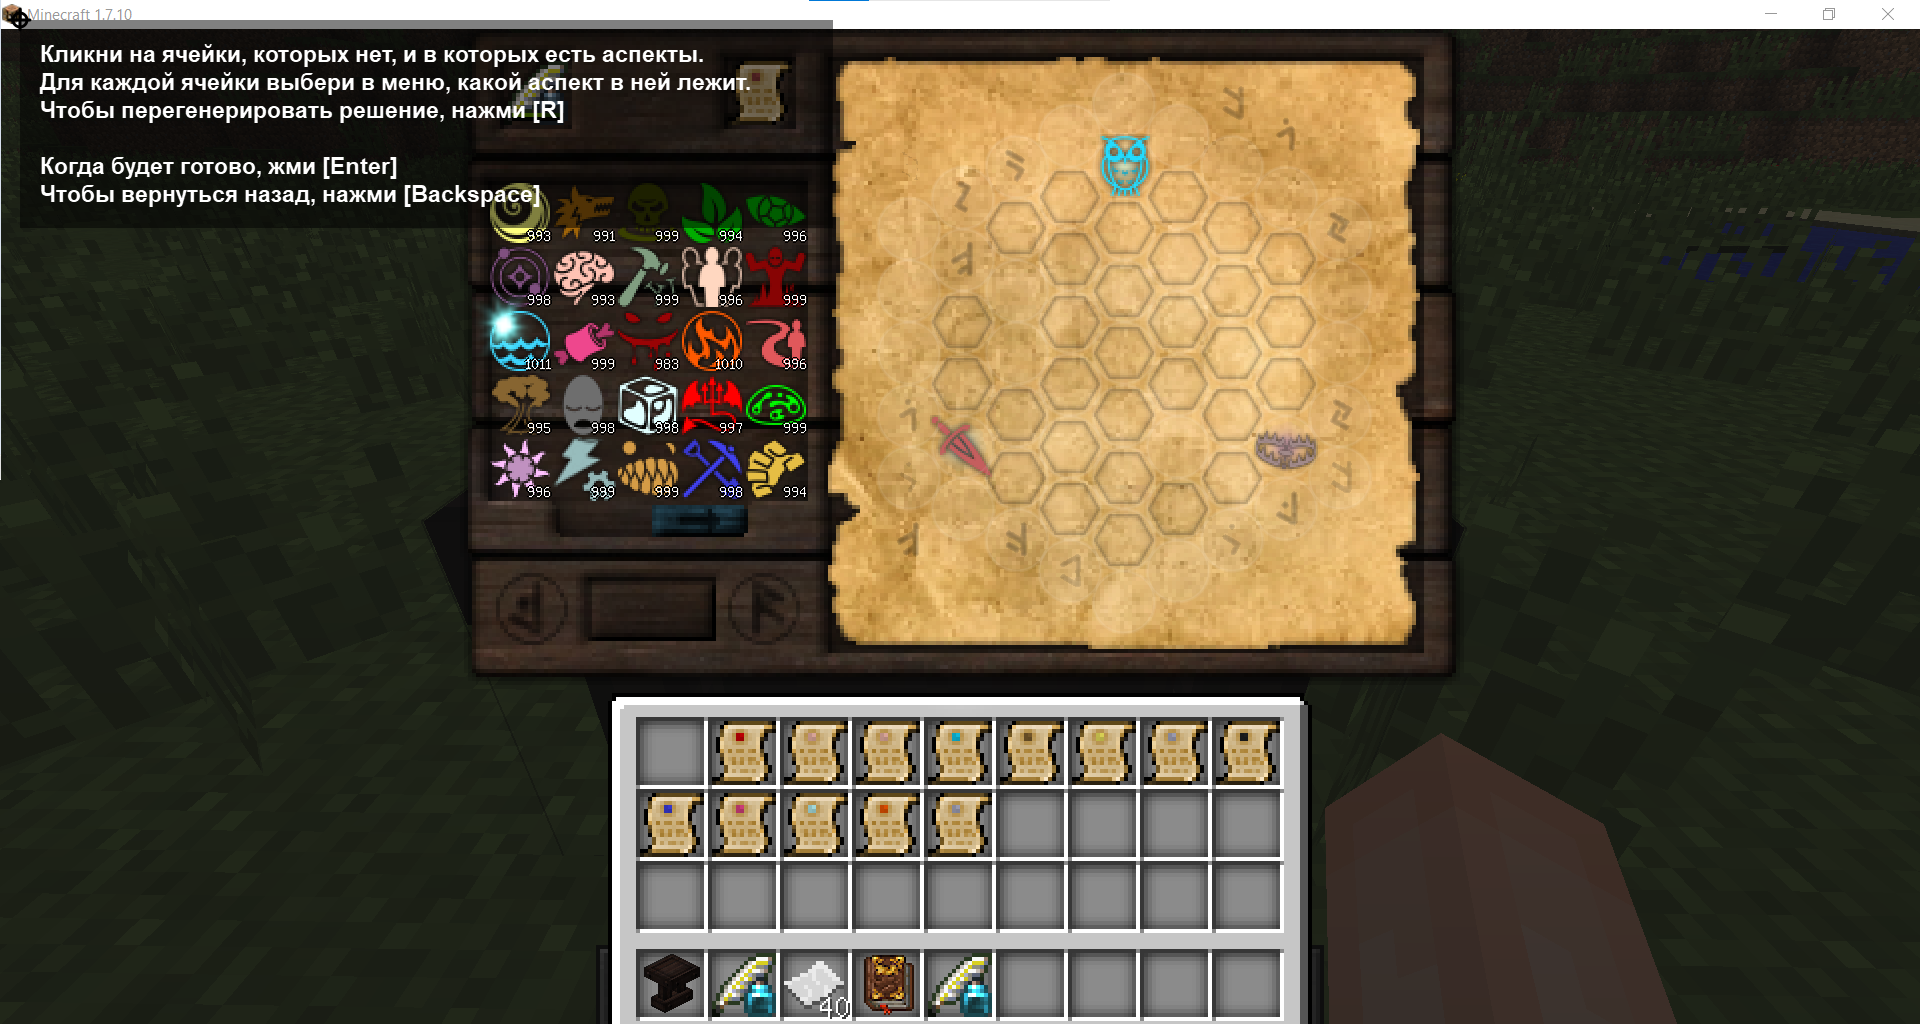
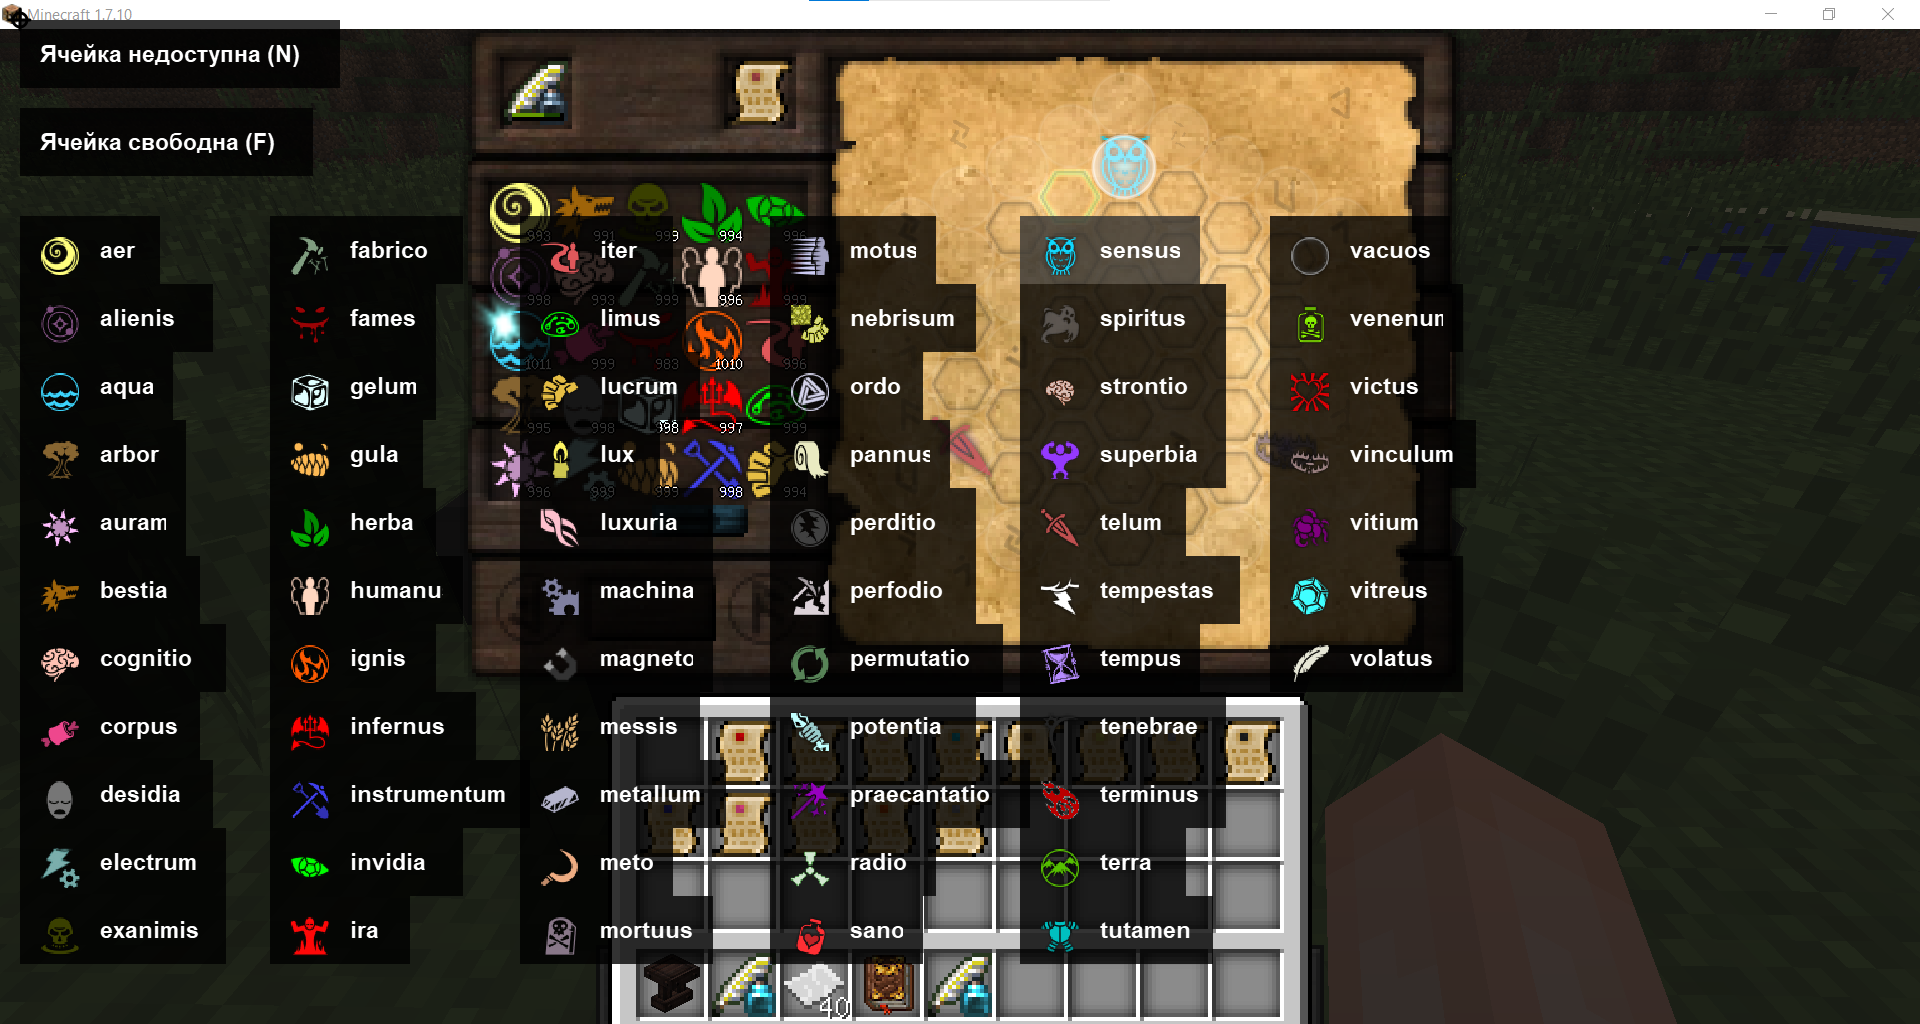
Переписал README под нейронку

diff --git a/src/controllers/Scenarios.py b/src/controllers/Scenarios.py
@@ -459,9 +459,11 @@ def runResearching(UI: OverlayUI, TI: ThaumInteractor):
     cellColorNone.setAlpha(150)
     cellColorAspect.setAlpha(200)
 
+    # it all Lists to make them mutable
     existingAspects = [{}]
     freeHexagons = [set()]
     noneHexagons = [set()]
+    isUnstoppableModeOn = [False]
 
     def updateDetectingField():
         logging.debug(f'Run detecting aspects on field')
@@ -497,7 +499,6 @@ def runResearching(UI: OverlayUI, TI: ThaumInteractor):
             # is free:
             if (cell.x, cell.y) in freeHexagons[0]:
                 if cell.aspect is not None:
-                    logging.error(f"Found empty hexagon on cell with aspect! Aspect: {cell.aspect}")
                     continue
                 cell.isNone = False
                 cell.object.setColor(cellColorFree)
@@ -538,11 +539,12 @@ def runResearching(UI: OverlayUI, TI: ThaumInteractor):
         MARGIN, MARGIN,
         f"""Нейросеть определила аспекты на поле.
 Чтобы перегенерировать полученную цепочку решения, нажми [R]
-Если аспекты определены неверно, пиши https://t.me/tyapkin_s
-Перегенерировать можно, вернувшись назад, а затем снова на этот этап.
+Если аспекты определены неверно, можно кликнуть на ячейку 
+и выбрать, что в ней должно быть на самом деле. 
 
-Чтобы приостановить программу, нажми [ctrl + shift + пробел]
+Чтобы приостановить программу, нажми [Ctrl + Shift + Пробел]
 Если все определено правильно, жми [Enter]
+Чтобы включить безостановочный режим, жми вместо этого [Ctrl + Enter]
 Чтобы вернуться назад, нажми [Backspace]""",
         color=QColor('white'),
         withBackground=True,
@@ -559,7 +561,7 @@ def runResearching(UI: OverlayUI, TI: ThaumInteractor):
             f"""Подожди, решение выкладывается на поле... 
 Не двигай мышью и не нажимай никакие кнопки.
 
-Для экстренного закрытия программы нажми [ctrl + shift + alt]""",
+Для экстренного закрытия программы нажми [Ctrl + Shift + Alt]""",
             color=QColor('white'),
             withBackground=True,
             backgroundColor=QColor('black'),
@@ -590,20 +592,26 @@ def runResearching(UI: OverlayUI, TI: ThaumInteractor):
     def goToNextSlot():
         logging.info("Going to next slot")
         TI.insertPaper()
+        TI.moveMouseInSafePos()
         existingAspects[0].clear()
         freeHexagons[0].clear()
         noneHexagons[0].clear()
         currentLinkMap[0].clear()
+        if not isUnstoppableModeOn[0]:
+            updateCellsImage()
+        renderDelay()
         updateDetectingField()
         updateSolving()
         switchToActiveState()
         logging.info("Everything prepared to next detecting")
+        if isUnstoppableModeOn[0]:
+            startPuttingLinkMap()
 
     onPausedText = UI.addObject(UIPrimitives.Text(
         MARGIN, MARGIN,
         f"""Программа проистановлена.
 
-Чтобы продолжить работу, нажми [ctrl + shift + пробел]""",
+Чтобы продолжить работу, нажми [Ctrl + Shift + Пробел]""",
         color=QColor('white'),
         withBackground=True,
         backgroundColor=QColor('black'),
@@ -611,7 +619,10 @@ def runResearching(UI: OverlayUI, TI: ThaumInteractor):
     ))
 
     def switchToActiveState():
+        def setUnstoppableModeOn():
+            isUnstoppableModeOn[0] = True
         UI.clearKeyCallbacks()
+        UI.setKeyCallback([KeyboardKeys.ctrl, KeyboardKeys.enter], setUnstoppableModeOn)
         UI.setKeyCallback([KeyboardKeys.enter], startPuttingLinkMap)
         UI.setKeyCallback([KeyboardKeys.r], updateSolving)
         UI.setKeyCallback([KeyboardKeys.backspace], beReadyForStartSolving, UI)

diff --git a/src/controllers/ThaumInteractor.py b/src/controllers/ThaumInteractor.py
@@ -119,6 +119,7 @@ class ThaumInteractor:
 
     pointWritingMaterials: P
     pointPapers: P
+    pointSafePosition: P
     rectAspectsListingLT: P
     rectAspectsListingRB: P
     pointAspectsScrollLeft: P
@@ -147,6 +148,7 @@ class ThaumInteractor:
         c = controlsConfig
         self.pointWritingMaterials = P(c['pointWritingMaterials']['x'], c['pointWritingMaterials']['y'])
         self.pointPapers = P(c['pointPapers']['x'], c['pointPapers']['y'])
+        self.pointSafePosition = P((self.pointPapers.x + self.pointWritingMaterials.x) / 2, self.pointPapers.y)
         self.rectAspectsListingLT = P(c['rectAspectsListingLT']['x'], c['rectAspectsListingLT']['y'])
         self.rectAspectsListingRB = P(c['rectAspectsListingRB']['x'], c['rectAspectsListingRB']['y'])
         self.pointAspectsScrollLeft = P(c['pointAspectsScrollLeft']['x'], c['pointAspectsScrollLeft']['y'])
@@ -254,6 +256,9 @@ class ThaumInteractor:
             clickCircle.r = timeLeft / 1000 * 20
 
         self.UI.addObjectAndDeleteAfterTime(clickCircle, 1000, onTimeCallback)
+
+    def moveMouseInSafePos(self):
+        self.pointSafePosition.move()
 
     def takeOutPaper(self):
         logging.info(f"Take out paper from thaum inventory")

diff --git a/src/utils/constants.py b/src/utils/constants.py
@@ -59,9 +59,7 @@ THAUM_ASPECTS_INVENTORY_SLOTS_Y = 5
 
 THAUM_HEXAGONS_SLOTS_COUNT = 9  # must be odd
 
-# DELAY_BETWEEN_EVENTS = 0.1  # seconds
-DELAY_BETWEEN_EVENTS = 0.2  # seconds
-# DELAY_BETWEEN_RENDER = 0.5  # seconds
+DELAY_BETWEEN_EVENTS = 0.12  # seconds
 DELAY_BETWEEN_RENDER = 0.5  # seconds
 
 

diff --git a/README.md b/README.md
@@ -24,21 +24,22 @@
 ---
 
 ## [Download .exe releases](https://github.com/SergTyapkin/thaumcraft-auto-researcher/releases)
-[latest version `v1.0.2`](https://github.com/SergTyapkin/thaumcraft-auto-researcher/releases/tag/v1.0.2)
+[latest version `v1.1.0`](https://github.com/SergTyapkin/thaumcraft-auto-researcher/releases/tag/v1.1.0)
 <details>
 <summary>Changelog:</summary>
 
-- Улучшено качество решения цепочек аспектов
-- Ускорено решение цепочек аспектов в ~2 раза
-- Добавлено логирование в .log-файлы внутри исполняемого .exe
-- Добавлена кнопка закрытия
+- Теперь нейросеть определяет аспекты на столе!
+Скорость исследований благодаря этому увеличилась более чем в 10 раз.
+- Добавлены сочетания клавиш для более тонкого управления
+- Добавлен безостановочный режим исследования
 </details>
 
 
 По любым вопросам, ошибкам и предложениям пишите: [t.me/tyapkin_s](https://t.me/tyapkin_s)
 
 ## Порядок работы
-### Первоначальная настройка
+### Предварительная настройка 
+> _Выполняется один раз после первого запуска программы_
 1. Демонстрация и проверка того, что точки с перекрестьями можно двигать. 
 Просто передвиньте красную точку на желтую.
 ![image](https://github.com/SergTyapkin/thaumcraft-auto-researcher/blob/master/README_images/enroll.png?raw=true)
@@ -56,34 +57,39 @@
 Вернуться к конфигурации всегда можно, нажав клавишу `Backspace`
 
 ### Решение цепочек аспектов
-1. Записки исследований из левого верхнего слота инвентаря будут автоматически положены в стол исследований.
-Кликните на существующий аспект на поле и выберите его из списка аспектов
-![image](https://github.com/SergTyapkin/thaumcraft-auto-researcher/blob/master/README_images/setup_table_aspects.png?raw=true)
-![image](https://github.com/SergTyapkin/thaumcraft-auto-researcher/blob/master/README_images/setup_table_aspects_1.png?raw=true)
-2. Для всех остальных аспектов сделайте то же самое, а так же отметьте все ячейки, в которые
-аспекты нельзя класть (пустые). Должно получиться аналогично скриншоту ниже:
-![image](https://github.com/SergTyapkin/thaumcraft-auto-researcher/blob/master/README_images/setup_table_aspects_2.png?raw=true)
-3. Если цепочка аспектов слишком большая или в ней используются аспекты, которых у вас нет, нажмите `R`, чтобы перегенерировать её
-![image](https://github.com/SergTyapkin/thaumcraft-auto-researcher/blob/master/README_images/setup_table_aspects_3.png?raw=true)
-4. Прежде чем начать, убедитесь, что в чернильнице достаточно чернил. Если они закончатся, алгоритм выкладывания аспектов будет прерван.
-Затем нажмите `Enter`, и начнется процесс выкладывания аспектов на стол по полученным цепочкам.
-5. После окончания выкладывания аспектов, записка исследований будет положена в инвентарь,
-а вместо неё в стол положена следующая из инвентаря.
-Процесс можно начинать заново. Таким образом можно решать большое количество записок, лежащих в инвентаре друг за другом
-![image](https://github.com/SergTyapkin/thaumcraft-auto-researcher/blob/master/README_images/solving_done.png?raw=true)
+1. **Положите записку исследований** из левого верхнего слота инвентаря в слот стола исследований
+После нажатия на `Enter` запустится процесс определения аспектов на поле с помощью нейросети.
+![image](https://github.com/SergTyapkin/thaumcraft-auto-researcher/blob/master/README_images/prepare_to_solving_aspects.png?raw=true)
+Автоматически будет сгенерировано решение цепочками аспектов, которое программа собирается выложить
+![image](https://github.com/SergTyapkin/thaumcraft-auto-researcher/blob/master/README_images/aspects_solved.png?raw=true)
+> - Если цепочка аспектов слишком большая или в ней используются аспекты, которых у вас нет, нажмите `R`, чтобы перегенерировать её
+![image](https://github.com/SergTyapkin/thaumcraft-auto-researcher/blob/master/README_images/aspects_rerolled.png?raw=true)
 
+> - Если необходимо сделать что-либо в игре так, чтобы игру не перекрывал интерфейс программы, можно нажать `Ctrl+Shift+Пробел`, и
+программа приостановит работу до повторного нажатия этого сочетания клавиш.
+![image](https://github.com/SergTyapkin/thaumcraft-auto-researcher/blob/master/README_images/program_paused.png?raw=true)
+2. **Убедитесь, что в чернильнице достаточно чернил**. Если они закончатся, алгоритм выкладывания аспектов не остановится,
+а записки исследований не будут решены.
+Затем нажмите `Enter`, и начнется процесс выкладывания аспектов на стол по полученным цепочкам.
+3. **После окончания выкладывания аспектов**, записка исследований будет положена в инвентарь,
+а вместо неё в стол положена следующая из инвентаря.
+Затем процесс повторится заново. Таким образом можно решать большое количество записок, лежащих в инвентаре друг за другом
+![image](https://github.com/SergTyapkin/thaumcraft-auto-researcher/blob/master/README_images/next_research_putted.png?raw=true)
+> - Чтобы записки исследований продолжали исследоваться по очереди, как они лежат в инвентаре, можно нажать `Ctrl+Enter`, и тогда
+при изучении каждой следующей записки программа не будет ждать от пользователя подтверждения клавишей `Enter`, а сразу начнет выкладывать решение.
+
+> - Во время выкладывания аспектов предусмотрено сочетание клавиш `Ctrl+Shift+Alt` на случай, если необходимо экстренно завершить программу.
 
 ## В следующих версиях
-- Автоопределение аспектов на столе с помощью нейросети.
 - Автоопределение имеющихся аспектов в столе и их количества, выстраивание цепочек на основе этой информации.
-- Редактирование исходных конфигов
-- Проверка корректности определения исходных аспектов
+- Адаптивная скорость работы в зависимости от FPS в игре
 - Проверка корректности выложенных цепочек
-- Больше поддерживаемых версий и аддонов
 - Отслеживание состояния чернильницы
 - Перевод на другие языки внутри приложения
 
----
+
+----------
+
 ## Запуск из исходников:
 1. Установка зависимостей:
 ```shell
@@ -103,7 +109,7 @@ pip install -r requirements.txt
 pip install auto-py-to-exe
 ```
 
-2. *\[Необязательный шаг]* Скачивание UPX (уменьшает размер итогового exe-файла)
+2. ***\[Необязательный шаг]*** Скачивание UPX (уменьшает размер итогового exe-файла)
 https://github.com/upx/upx/releases/
 
 
@@ -112,5 +118,5 @@ https://github.com/upx/upx/releases/
 auto-py-to-exe -c .\pyinstaller_configs\autoPyToExe.json
 ```
 
-4. *\[Необязательный шаг]* В разделе **Advanced** указать `--upx-dir` (расположение папки с исполняемым файлом `upx.exe`) и запустить сборку.
+4. ***\[Необязательный шаг]*** В разделе **Advanced** указать `--upx-dir` (расположение папки с исполняемым файлом `upx.exe`) и запустить сборку.
 Скомпилированный exe-файл появится в папке `output` в этой директории
